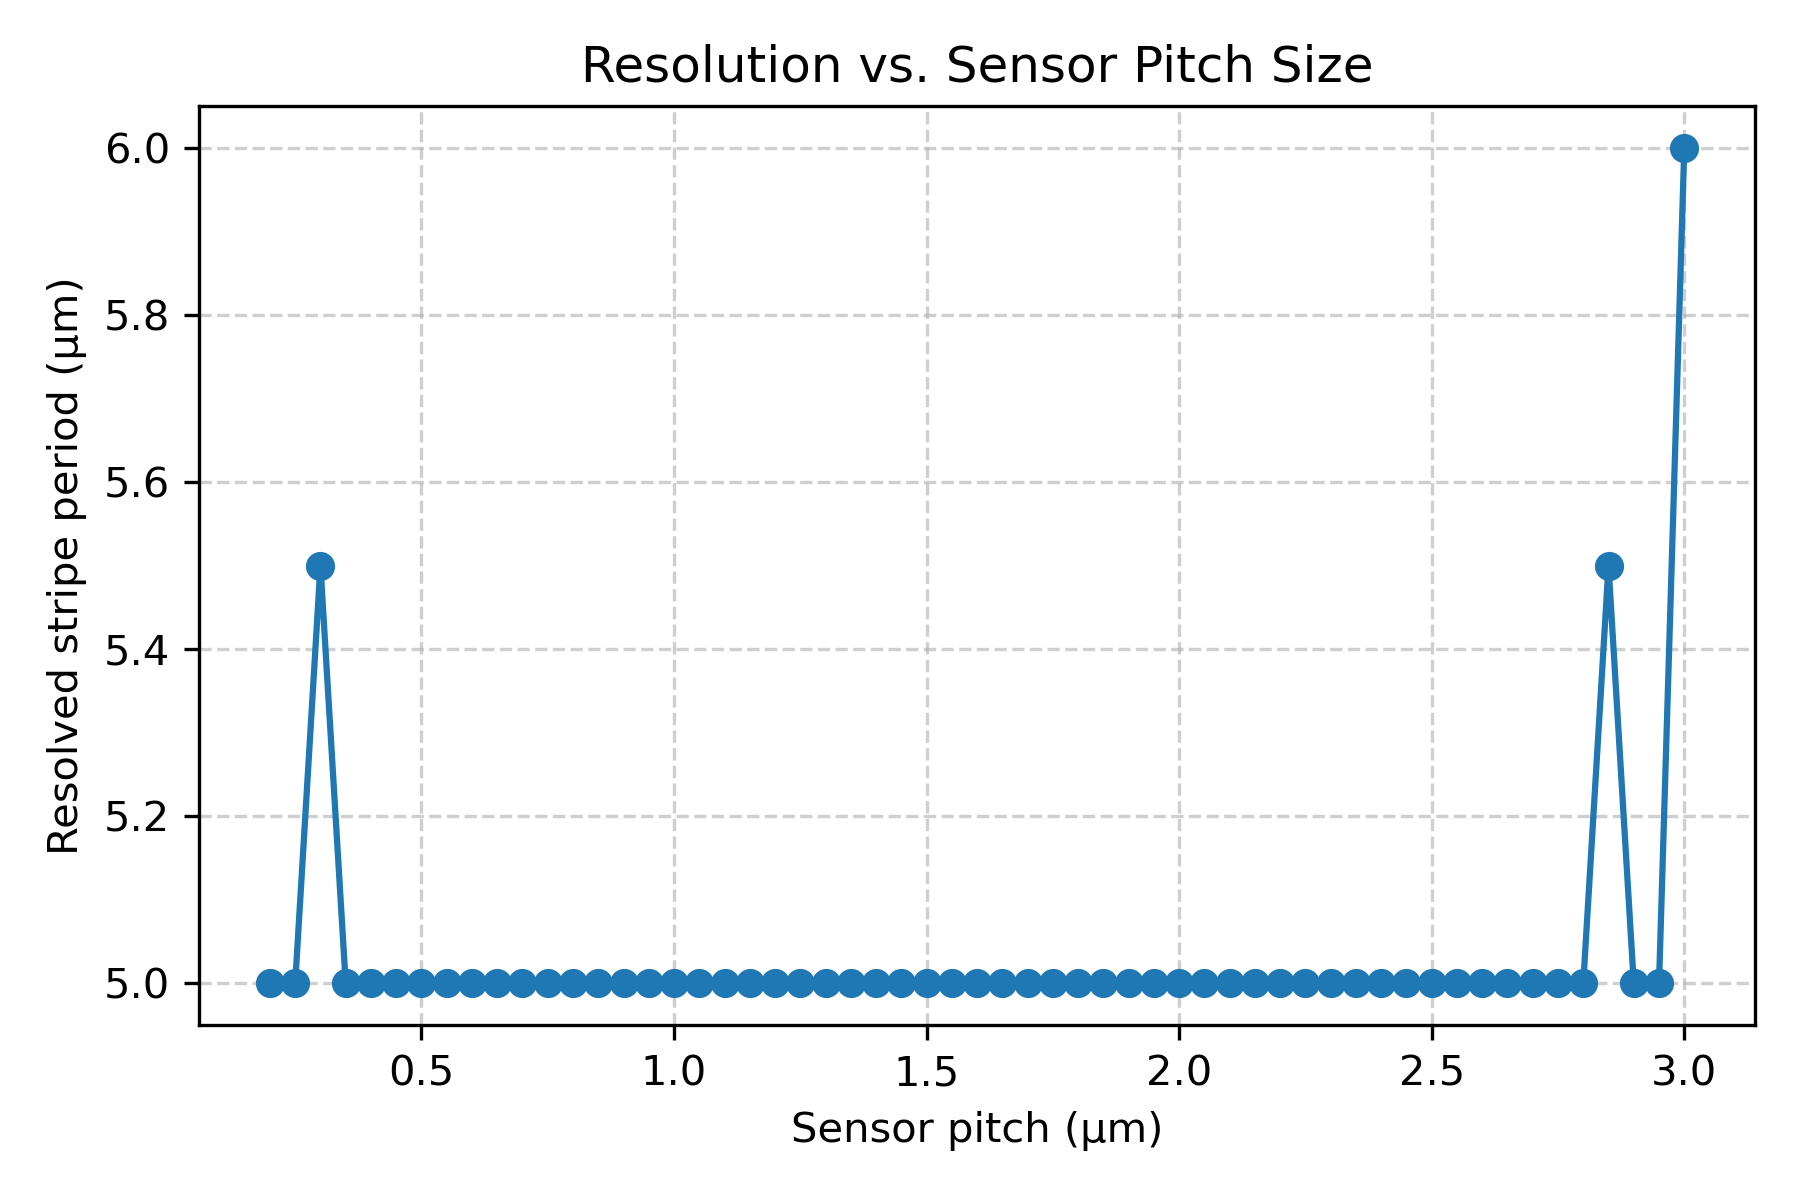
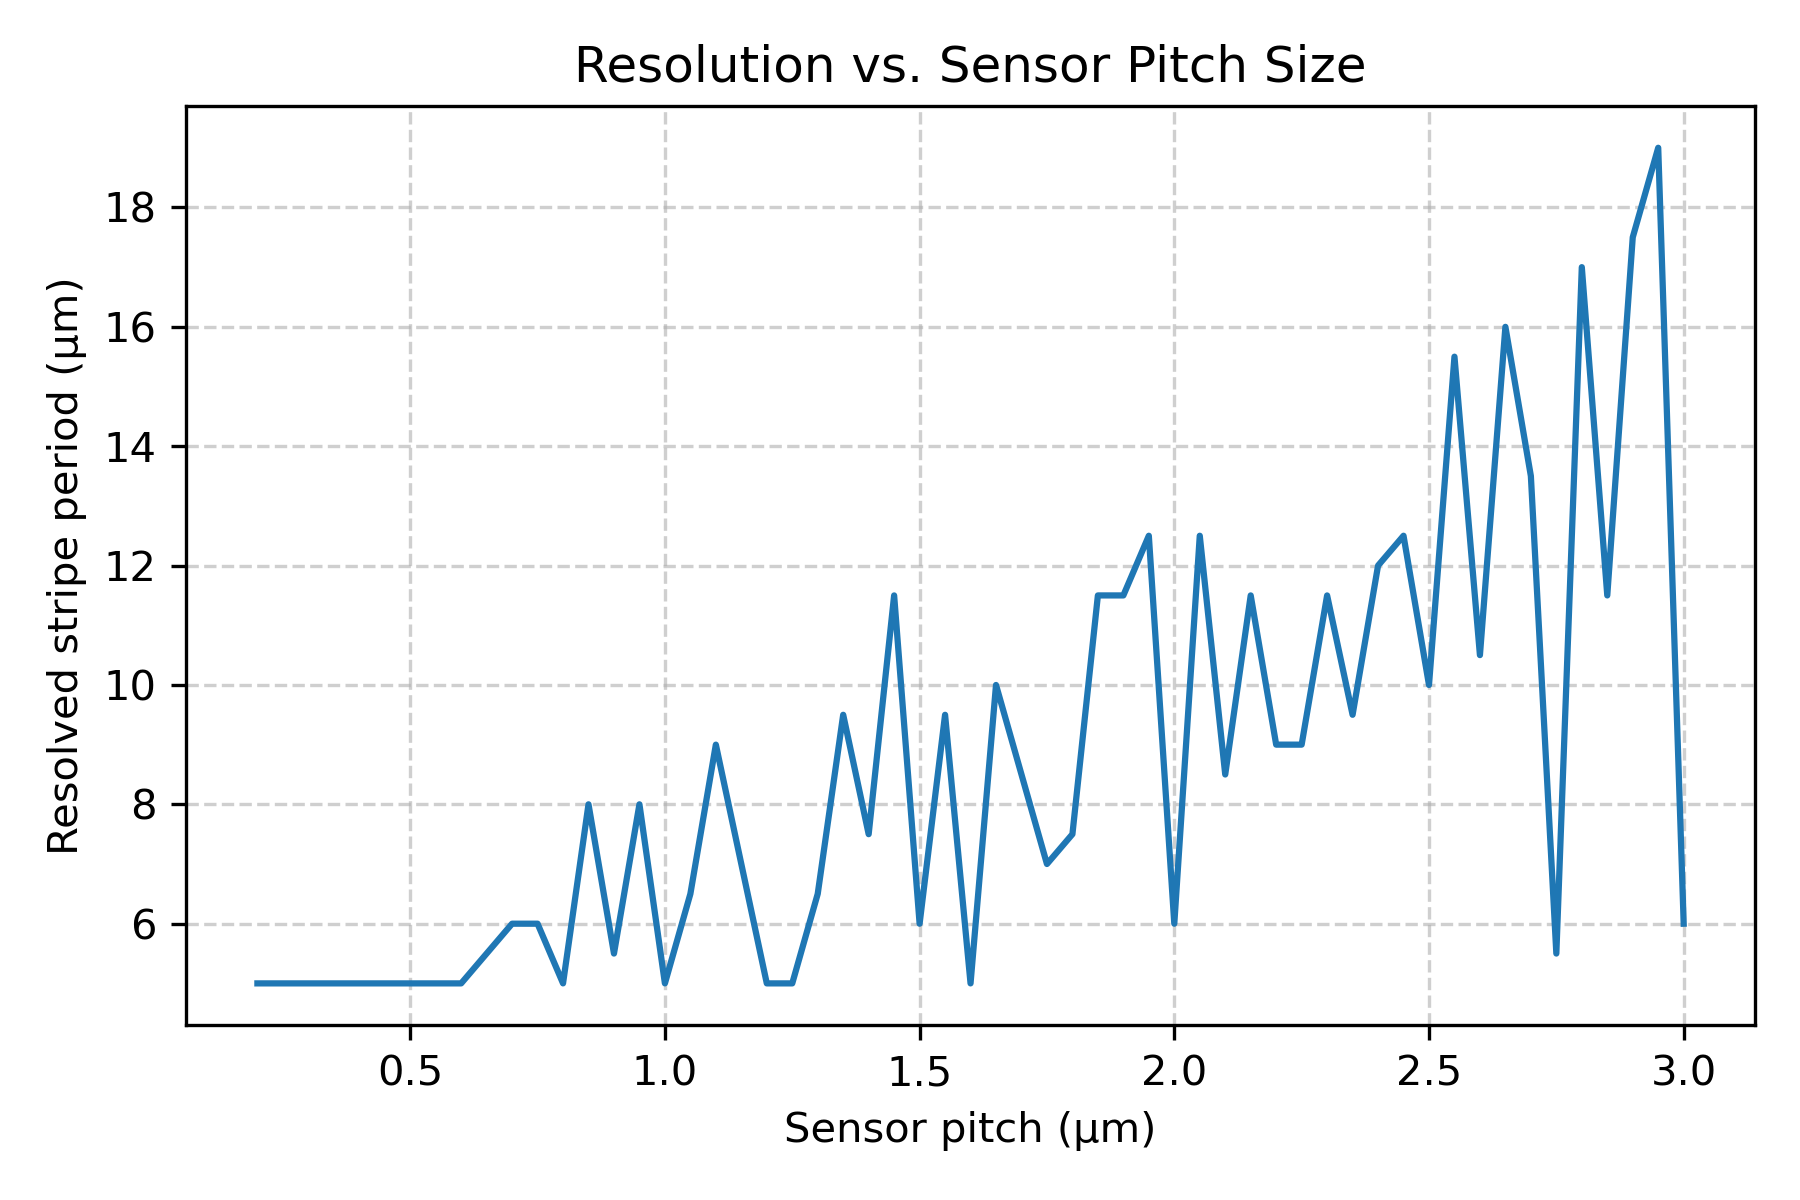
1

diff --git a/Rayleigh criterion/Pixel_auto.py b/Rayleigh criterion/Pixel_auto.py
@@ -151,14 +151,14 @@ def IPR(Measured_amplitude, distance, k_max, convergence_threshold, pixelSize, W
 #----------------------------------------Divided Line-------------------------------------------
 
 # --- Set pitch size of the image and sensor ---
-sensor_pixel_sizes = np.arange(2.65, 3.05, 0.05) * 1e-6  # The range of pixel size from 0.2-3 micrometer and step size 0.05
-spacing_um = np.arange(5, 20, 0.5) * 1e-6
+sensor_pixel_sizes = np.arange(1.6, 3.05, 0.05) * 1e-6  # The range of pixel size from 0.2-3 micrometer and step size 0.05
+spacing_um = np.arange(7, 20, 0.5) * 1e-6
 resolutions = []
 for i in range (57):
     FOV_initial = 409.6e-6
     numPixels_sensor = int(FOV_initial // sensor_pixel_sizes[i])  # The dimension of the image
     FOV = numPixels_sensor * sensor_pixel_sizes[i] # The real FOV
-    z2 = 0.001  # Sample to sensor distance
+    z2 = 0.0005  # Sample to sensor distance
     wavelength = 532e-9  # Wavelength
 
     # --- Determine the sample pitch size according to the sensor pitch size ---
@@ -251,11 +251,10 @@ for i in range (57):
         # --- Reconstruction based on IPR algo ---
         rec_field, rms_errors, ssim_errors = IPR(Sampled_hologram, z2, 50, 1.5e-20, sensor_pixel_sizes[i], W_sen, H_sen, numPixels_sensor, am_object_field_down, wavelength, f_cut)
         am_rec_field = np.abs(rec_field)
-        plot_image(am_rec_field, "rec field", r'C:\Users\GOG\Desktop\Research\Pixel_test\0.001', sensor_pixel_sizes[i], n)
+        plot_image(am_rec_field, "rec field", r'/Users/wangmusi/Desktop/Research/Reconstruction relationship/pixel2', sensor_pixel_sizes[i], n)
 
         # --- Contrast ---
         img_size_sensor = numPixels_sensor
-        print(img_size_sensor)
         region_size_sensor = img_size_sensor // 2
         start_sensor = (img_size_sensor - region_size_sensor) // 2
         end_sensor = start_sensor + region_size_sensor
@@ -266,36 +265,87 @@ for i in range (57):
         PSF = line_vals ** 2
         # Plot PSF
         # x = (np.arange(PSF.size) - PSF.size // 2) * sensor_pixel_sizes[i] * 1e6
+        # plt.figure(figsize=(6, 4))  # <-- 新建一个 figure
         # plt.plot(x, PSF, linewidth=2)
-        # 2) Find all the peaks and troughs
-        peaks, _ = find_peaks(PSF)
-        troughs, _ = find_peaks(-PSF)
-        # 3) Calculate the contrast
-        contrasts = []
-        for k in range(len(peaks) - 1):
-            p1, p2 = peaks[k], peaks[k + 1]
-            I1, I2 = PSF[p1], PSF[p2]
-            I_max_small = min(I1, I2)
-            # 中间的谷值索引
-            between = troughs[(troughs > p1) & (troughs < p2)]
-            if between.size == 0:
-                continue
-            # 如果中间有多个谷，取最低的那个
-            I_min = PSF[between].min()
-            C = (I_max_small - I_min) / (I_max_small + I_min)
-            contrasts.append(C)
-        count = sum(1 for c in contrasts if c > 0.7)
-        total = len(contrasts)
-        # 如果有 contrasts，且满足 80% 以上的对比度 > 0.35
-        min_contrast = min(contrasts) # 最小的对比度的值
-        if total > 0 and count >= 0.65 * total:
-            final_spacing = n
-            resolutions.append(final_spacing)
-            print(f"[i={i}] Sensor pixel = {sensor_pixel_sizes[i] * 1e6:.2f}μm: "
-                  f"80% contrasts >0.35，resolvable at {final_spacing * 1e6:.2f}μm")
-            break
-        else:
-            print(f"The minimum contrast is {min_contrast}. It's not resolvable, next run begins!")
+        # plt.xlabel('Position (μm)')
+        # plt.ylabel('PSF Intensity')
+        # plt.title(f'PSF Profile, sensor pitch = {sensor_pixel_sizes[i] * 1e6:.2f}μm, spacing = {n * 1e6:.2f}μm')
+        # plt.grid(True)
+        # plt.tight_layout()
+        # plt.show()
+
+        # 2) 找出每个亮条纹的最大值与暗条纹的最小值
+
+        try:
+            # 2) 找出每个亮条纹的最大值与暗条纹的最小值
+            period_sensor = period_px // factor
+            stripe_width_sensor = stripe_width // factor
+            size = PSF.size
+
+            # 跳过不合理情况
+            if stripe_width_sensor < 1 or period_sensor <= stripe_width_sensor or size < period_sensor:
+                raise ValueError("窗口太小，跳过")
+
+            n_periods = size // period_sensor
+            PSF_cut = PSF[:n_periods * period_sensor]
+            print(f"图像周期：{period_px}，传感器周期：{period_sensor}，图像条纹{stripe_width}，传感器条纹{stripe_width_sensor}")
+            I_max = []
+            I_min = []
+            for k in range(n_periods):
+                peak_block = PSF_cut[k * period_sensor: k * period_sensor + stripe_width_sensor]
+                trough_block = PSF_cut[k * period_sensor + stripe_width_sensor: (k + 1) * period_sensor]
+                if peak_block.size == 0 or trough_block.size == 0:
+                    raise ValueError("切片为空，跳过")
+                I_min.append(peak_block.min())
+                I_max.append(trough_block.max())
+            print(I_max)
+            contrasts = []
+            for k in range(len(I_max) - 1):
+                I_peak = min(I_max[k], I_max[k + 1])
+                I_trough = I_min[k]
+                contrasts.append((I_peak - I_trough) / (I_peak + I_trough))
+
+            # … 剩下的判准逻辑 …
+            count = sum(1 for c in contrasts if c > 0.45)
+            total = len(contrasts)
+            if total > 0 and count >= 0.7 * total:
+                # 可解
+                resolutions.append(n)
+                print(f"🌟[i={i}] Sensor pixel = {sensor_pixel_sizes[i] * 1e6:.2f}μm: "f"80% contrasts >0.35，resolvable at {n * 1e6:.2f}μm")
+                break
+            else:
+                print(f"The minimum contrast is {min(contrasts)}. It's not resolvable, next run begins!")
+        except Exception as e:
+            # 这里捕获上面抛出的跳过或其它错误，直接 continue
+            print(f"Contrast 计算时出错 ({e})，跳过 n={n * 1e6:.2f}μm")
+            continue
+        # I_max = [
+        #     PSF_cut[k * period_sensor: k * period_sensor + stripe_width_sensor].max()
+        #     for k in range(n_periods)
+        # ]
+        # I_min = [
+        #     PSF_cut[k * period_sensor + stripe_width_sensor: (k + 1) * period_sensor].min()
+        #     for k in range(n_periods)
+        # ]
+        # contrasts = []
+        # for k in range(n_periods - 1):
+        #     I_peak = min(I_max[k], I_max[k + 1])
+        #     I_trough = I_min[k]
+        #     C = (I_peak - I_trough) / (I_peak + I_trough)
+        #     print(C)
+        #     contrasts.append(C)
+        # count = sum(1 for c in contrasts if c > 0.7)
+        # total = len(contrasts)
+        # # 如果有 contrasts，且满足 80% 以上的对比度 > 0.35
+        # min_contrast = min(contrasts) # 最小的对比度的值
+        # if total > 0 and count >= 0.65 * total:
+        #     final_spacing = n
+        #     resolutions.append(final_spacing)
+        #     print(f"[i={i}] Sensor pixel = {sensor_pixel_sizes[i] * 1e6:.2f}μm: "
+        #           f"80% contrasts >0.35，resolvable at {final_spacing * 1e6:.2f}μm")
+        #     break
+        # else:
+        #     print(f"The minimum contrast is {min_contrast}. It's not resolvable, next run begins!")
 
 
 # 转成 μm 单位方便阅读
@@ -313,7 +363,7 @@ plt.tight_layout()
 # 保存
 out_path = 'resolution_vs_sensor_pitch.png'
 plt.savefig(out_path, dpi=300)
-out_path = r'C:\Users\GOG\Desktop\Research\Pixel_test\resolution_vs_sensor_pitch.png'
+out_path = r'/Users/wangmusi/Desktop/Research/Reconstruction relationship/resolution_vs_sensor_pitch.png'
 plt.savefig(out_path, dpi=300)
 print(f"✅ Plot saved to {out_path}")
 

diff --git a/trash.py b/trash.py
@@ -1,2 +1,31 @@
-a= 7//3
-print(a)
+import numpy as np
+import matplotlib.pyplot as plt
+
+# Given data for z2 = 1 mm
+pitch_size = np.array([
+    0.1, 0.15, 0.2, 0.25, 0.3, 0.35, 0.4, 0.45, 0.5, 0.55,
+    0.6, 0.65, 0.7, 0.75, 0.8, 0.85, 0.9, 0.95, 1.0, 1.05,
+    1.1, 1.15, 1.2, 1.25, 1.3, 1.35, 1.4, 1.45, 1.5, 1.55,
+    1.6, 1.65, 1.7, 1.75, 1.8, 1.85, 1.9, 1.95, 2.0, 2.05,
+    2.1, 2.15, 2.2, 2.25, 2.3, 2.35, 2.4, 2.45, 2.5, 2.55,
+    2.6, 2.65, 2.7, 2.75, 2.8, 2.85, 2.9, 2.95, 3.0
+])
+
+resolution = np.array([
+    6, 6, 6, 6, 6, 6, 9, 6, 6, 6,
+    6, 6, 8, 6, 6, 6, 6, 6, 6, 5.5,
+    6, 6, 6, 6, 6, 6, 6, 6, 6, 6,
+    7, 6, 6, 6, 11, 6, 6, 6, 6, 6,
+    6, 6, 6, 6, 6, 6, 7, 7, 7, 8,
+    11, 11, 12, 13, 13, 14, 16, 16, 6
+])
+
+plt.figure(figsize=(8, 5))
+plt.plot(pitch_size, resolution, '-', linewidth=2, color='darkgreen')
+plt.xlabel('Pitch Size Δ (μm)')
+plt.ylabel('Reconstructed Resolution (μm)')
+plt.title('Resolution vs. Pitch Size\n(λ = 532 nm, z₂ = 1 mm)')
+plt.xlim(0.1, 3.0)
+plt.grid(True, linestyle='--', alpha=0.7)
+plt.tight_layout()
+plt.show()
